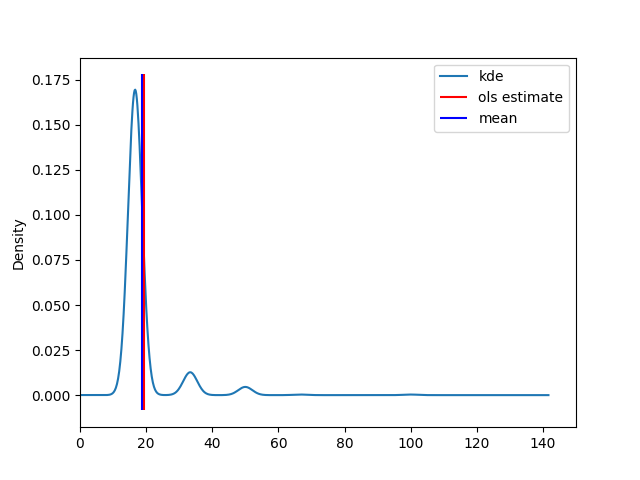
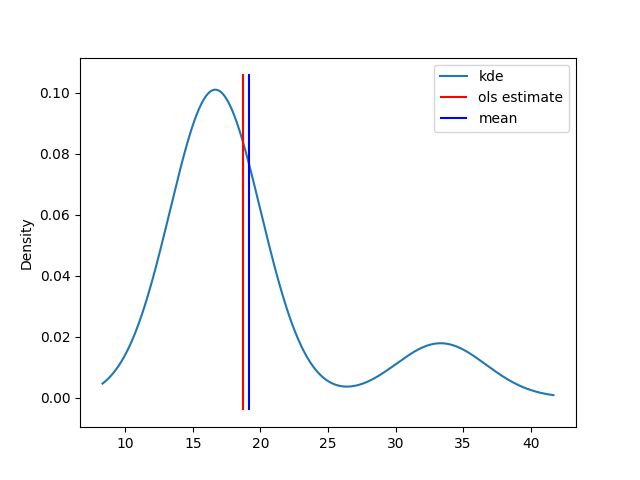
Use a smaller test sample for better examples

diff --git a/README.md b/README.md
@@ -5,12 +5,12 @@ Based on [Criterion](http://www.serpentine.com/criterion/tutorial.html)
 Example output:
 
 ```txt
-❯ python main.py
-                     label        min   esitmate        max
-0  OLS regression estimate  17.763650  19.207428  19.860302
-1                 R2 score   0.998398   0.999660   0.999974
-2                     mean  17.848299  18.831892  19.873403
-3                    stdev   4.914332   7.582488  10.793707
+❯ ./main.py
+                     label           min   esitmate        max
+0  OLS regression estimate  1.666000e+01  18.704211  24.896406
+1                 R2 score  9.811891e-01   0.997900   1.000000
+2                     mean  1.666000e+01  19.162000  24.164000
+3                    stdev  3.552714e-15   5.953152   8.292970
 ```
 
 ![KDE](docs/kde.png)
